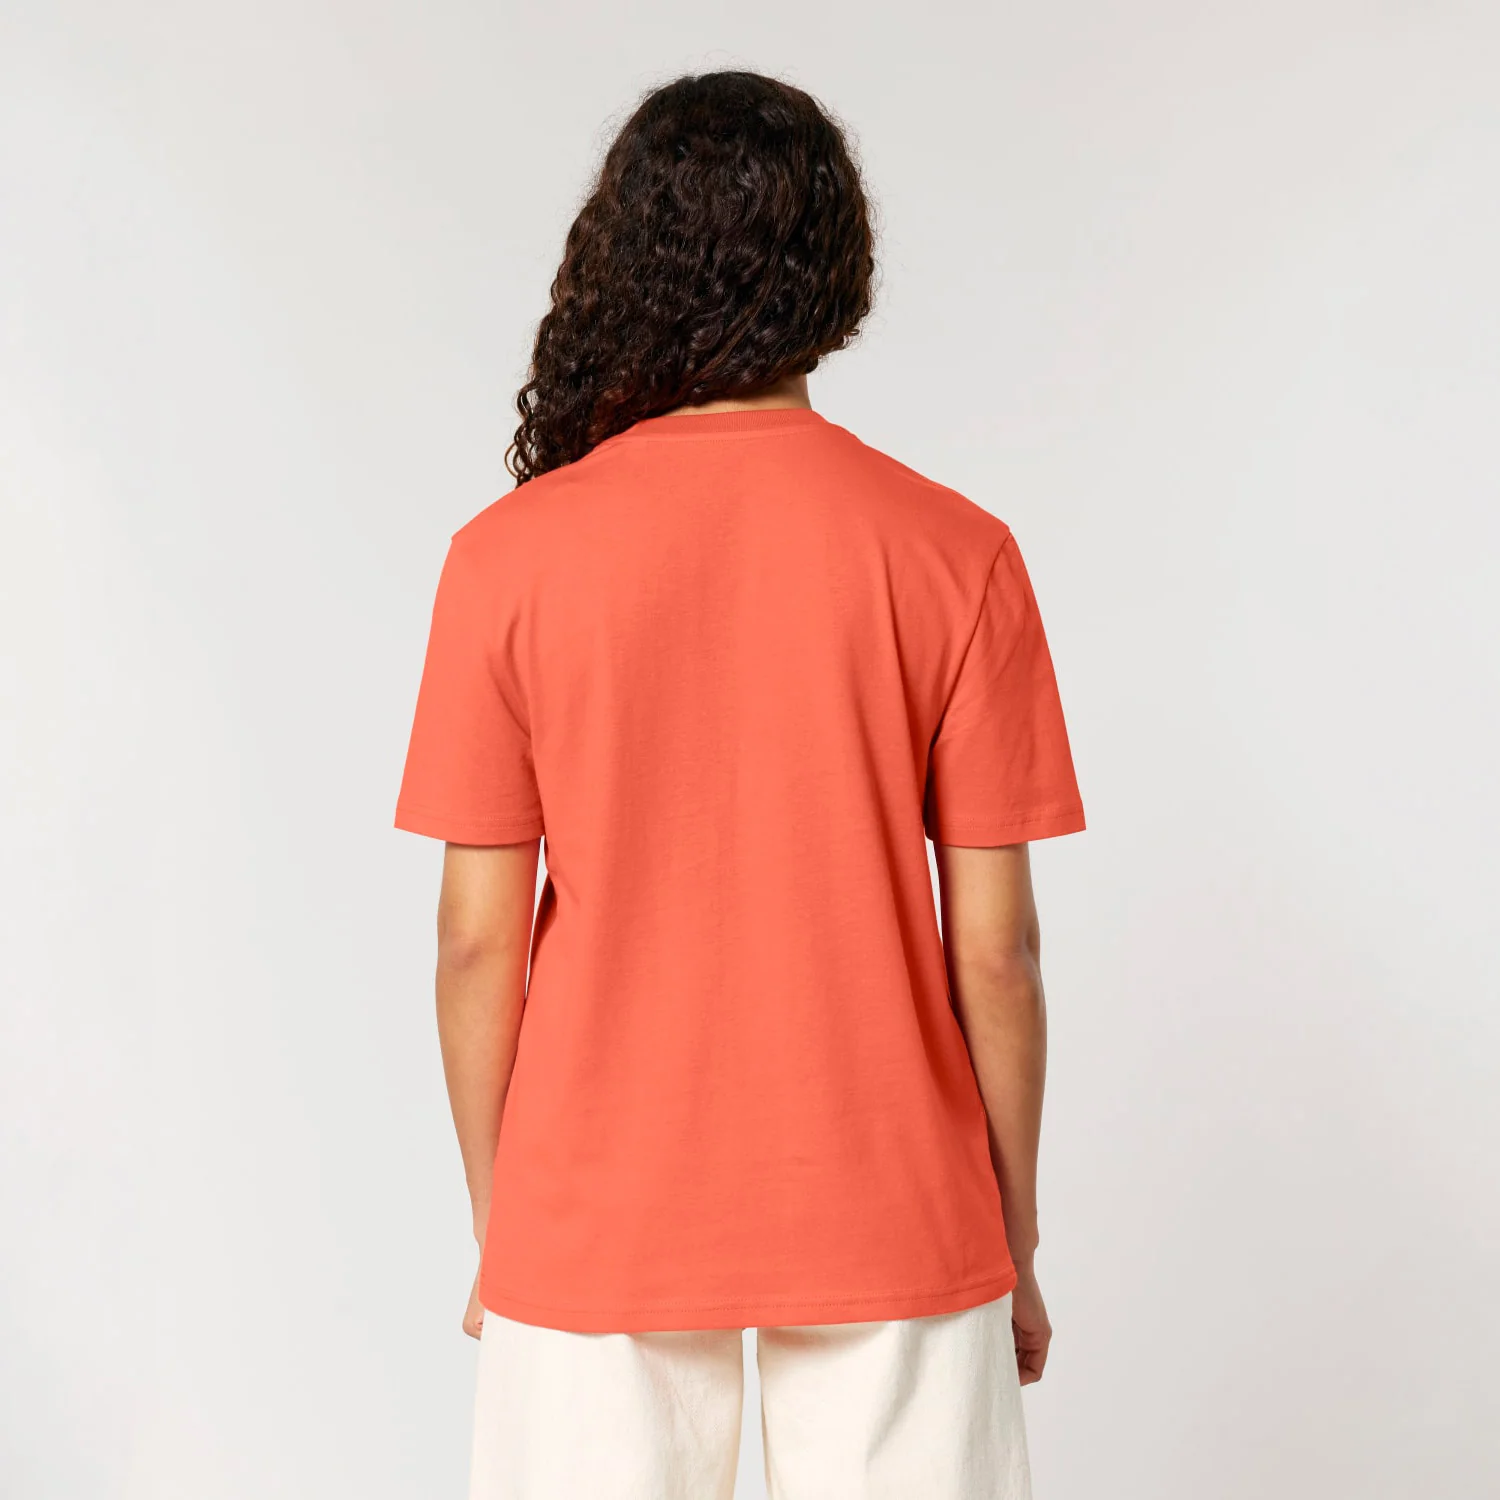
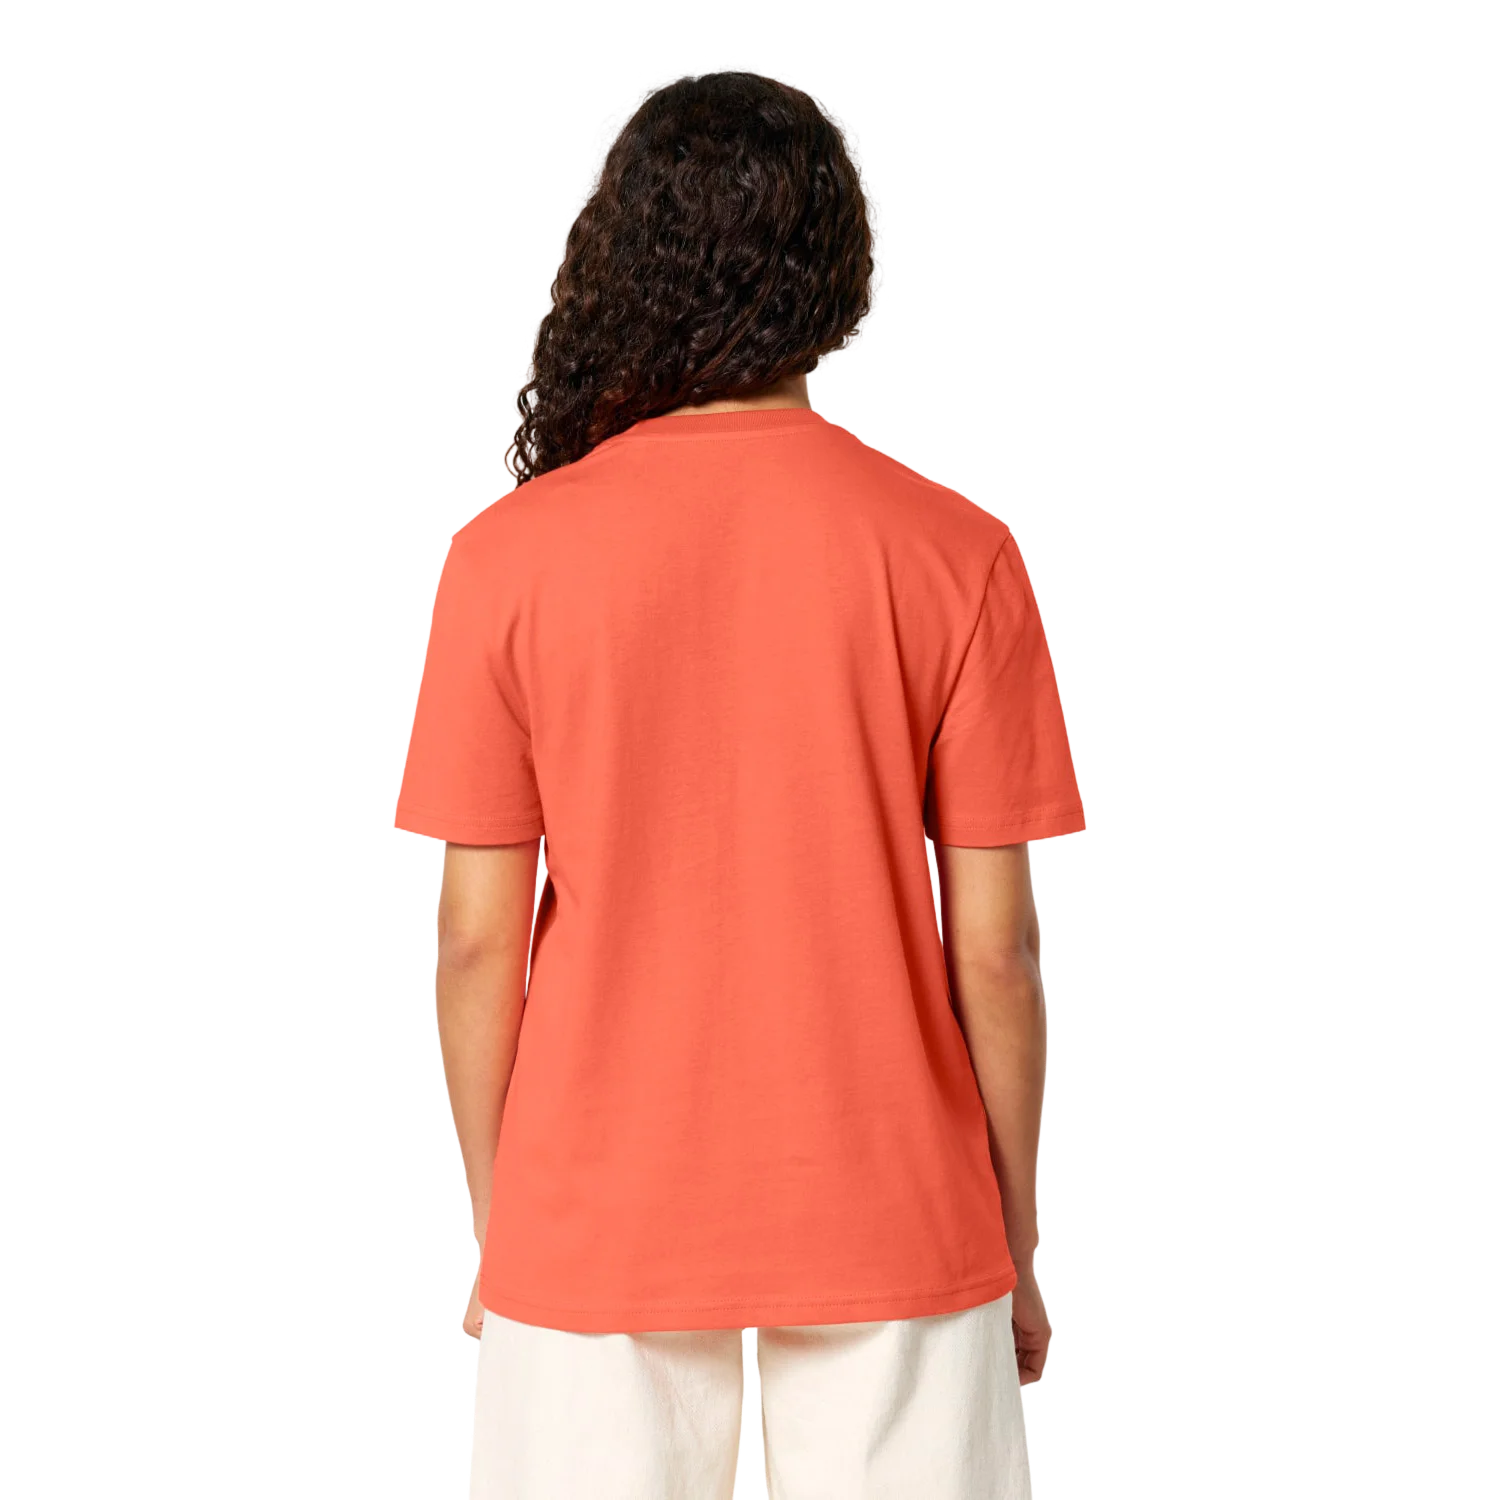
Freigestellte Produktbilder als WebP (Alpha) statt PNG
Von ~12 MB PNG auf ~1.3 MB WebP mit Transparenz (quality 85).
Ersetzt die alten weiß-hintergrundigen WebPs; mockProducts.ts
zeigt wieder auf .webp (Pfade unverändert).

diff --git a/src/data/mockProducts.ts b/src/data/mockProducts.ts
@@ -1,19 +1,19 @@
 import type { Product, ColorVariant } from "../types/models";
 
 const demoImages1 = [
-  "/images/produkte/produkt-demo-1-front.png",
-  "/images/produkte/produkt-demo-1-back.png",
-  "/images/produkte/produkt-demo-1-detail.png",
+  "/images/produkte/produkt-demo-1-front.webp",
+  "/images/produkte/produkt-demo-1-back.webp",
+  "/images/produkte/produkt-demo-1-detail.webp",
 ];
 const demoImages2 = [
-  "/images/produkte/produkt-demo-2-front.png",
-  "/images/produkte/produkt-demo-2-back.png",
-  "/images/produkte/produkt-demo-2-detail.png",
+  "/images/produkte/produkt-demo-2-front.webp",
+  "/images/produkte/produkt-demo-2-back.webp",
+  "/images/produkte/produkt-demo-2-detail.webp",
 ];
 const demoImages3 = [
-  "/images/produkte/produkt-demo-3-front.png",
-  "/images/produkte/produkt-demo-3-back.png",
-  "/images/produkte/produkt-demo-3-detail.png",
+  "/images/produkte/produkt-demo-3-front.webp",
+  "/images/produkte/produkt-demo-3-back.webp",
+  "/images/produkte/produkt-demo-3-detail.webp",
 ];
 
 const colors = (sets: string[][]): ColorVariant[] => [
